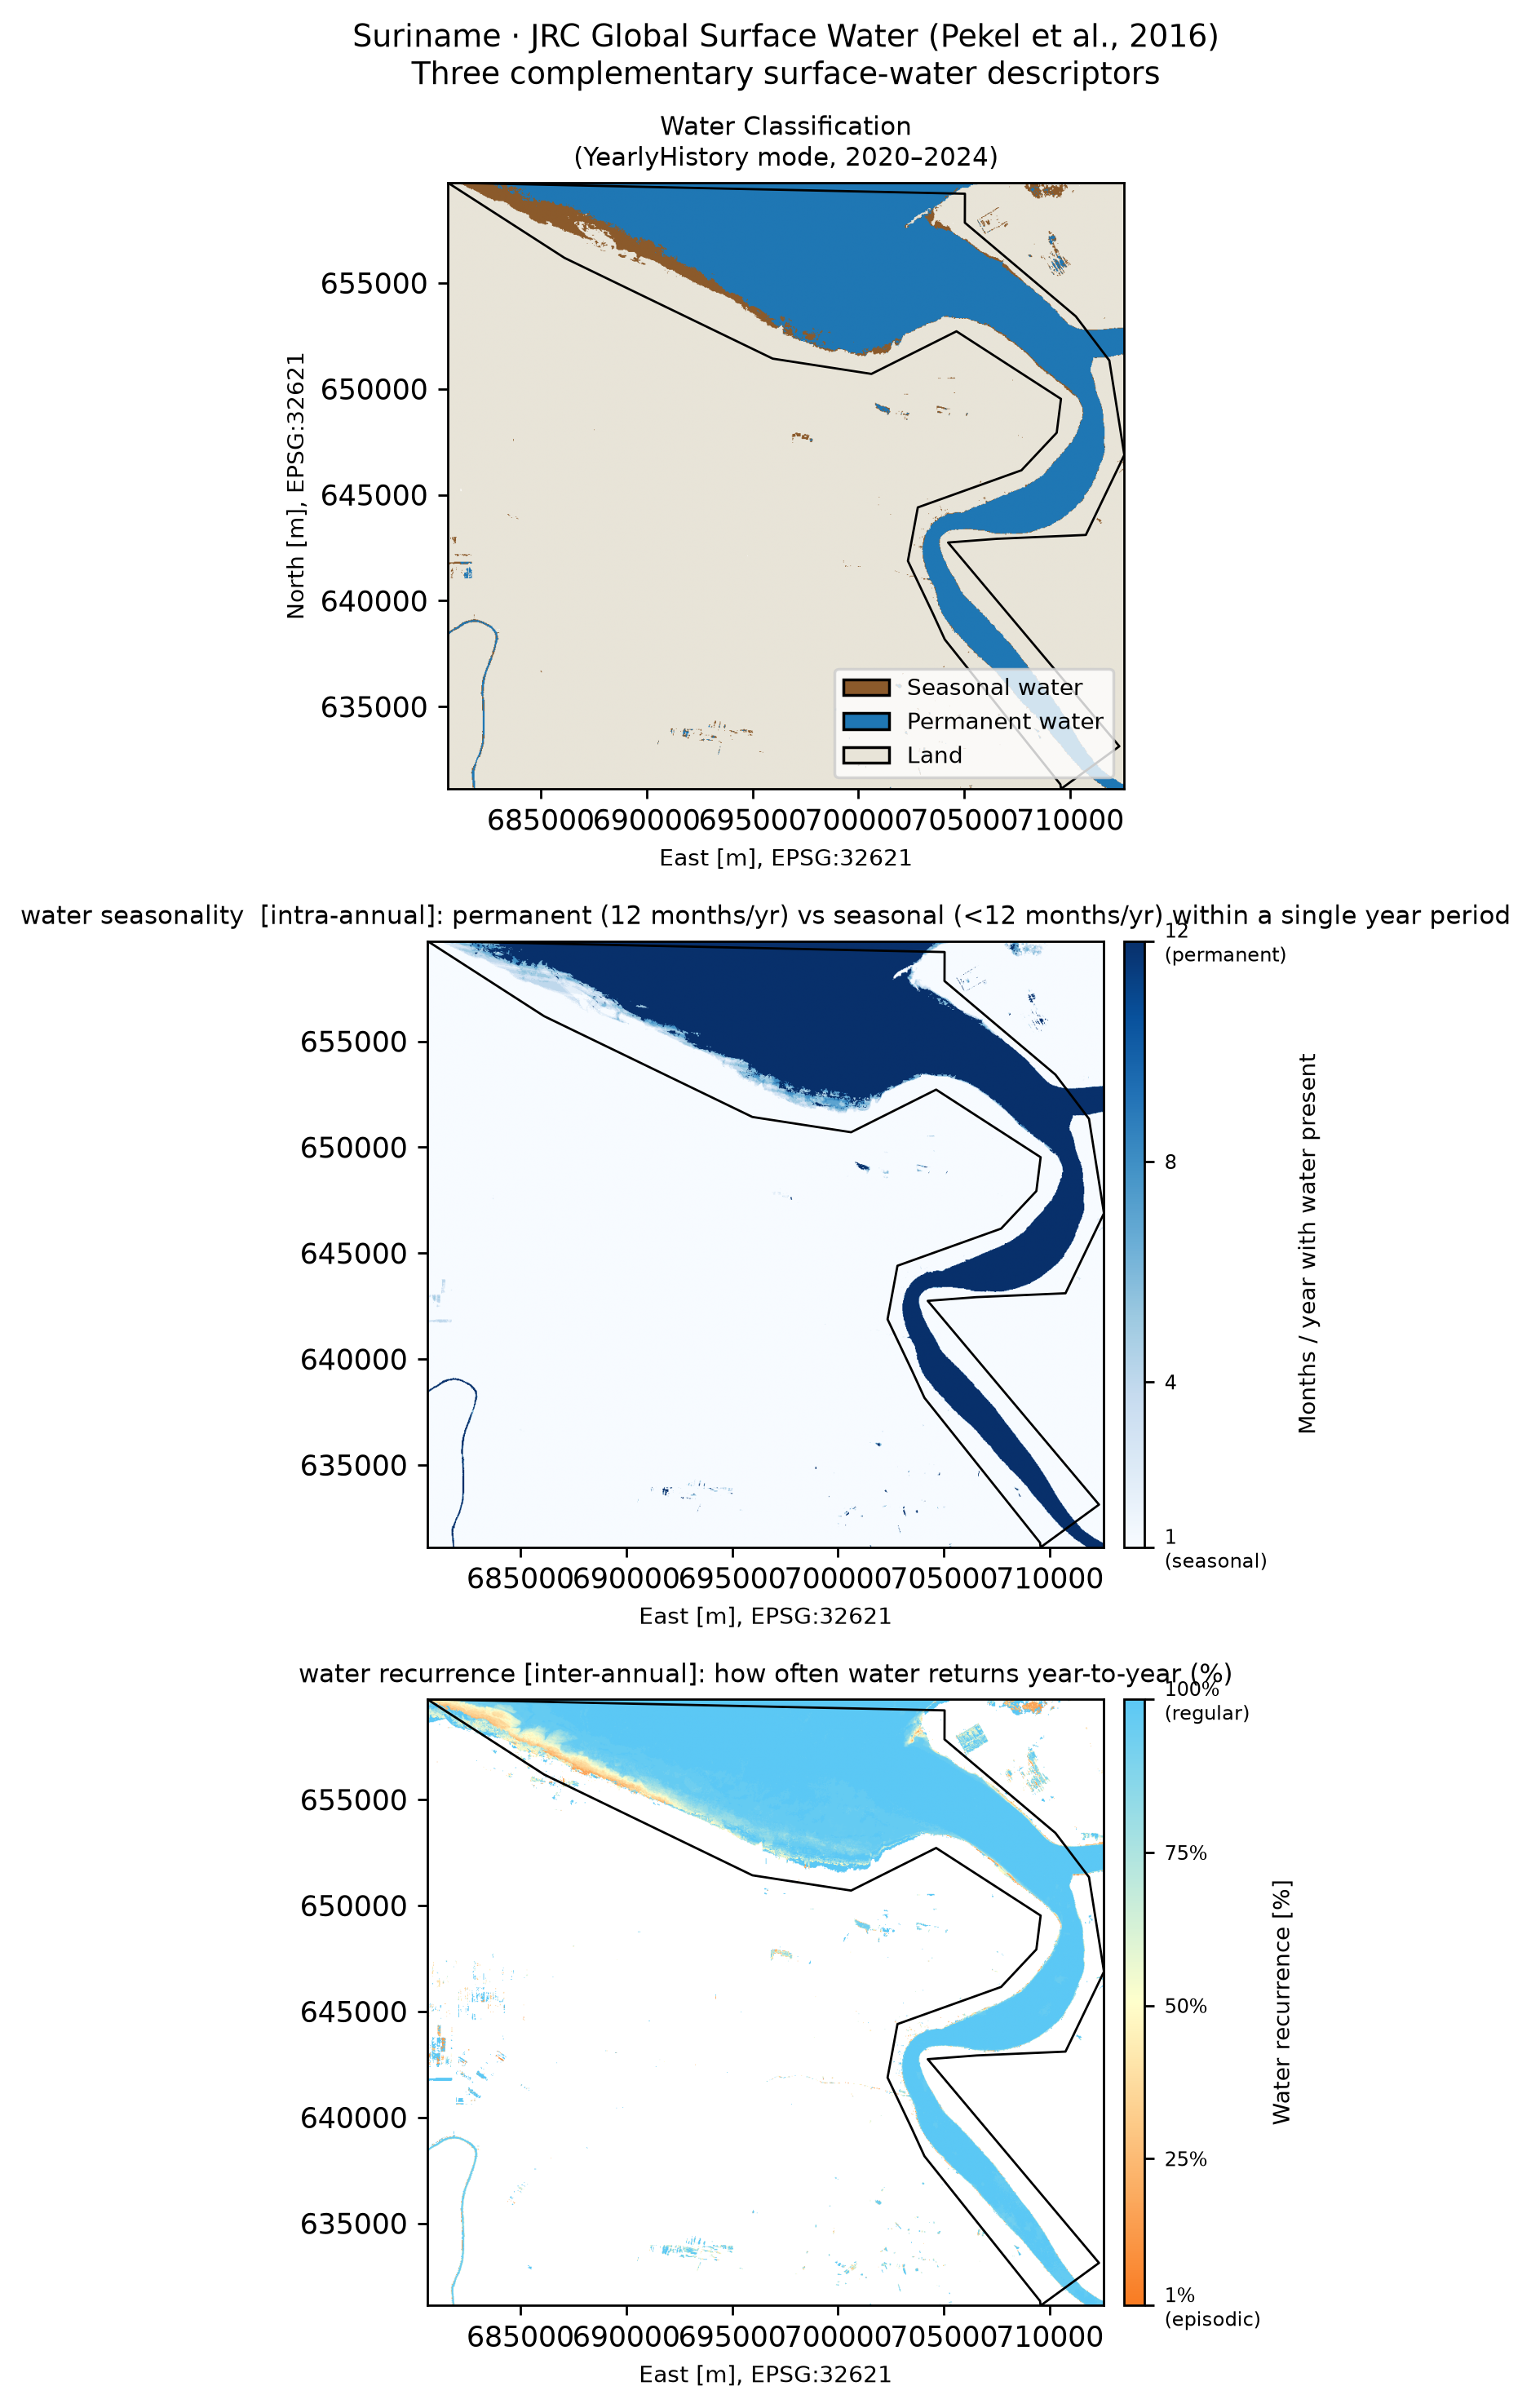
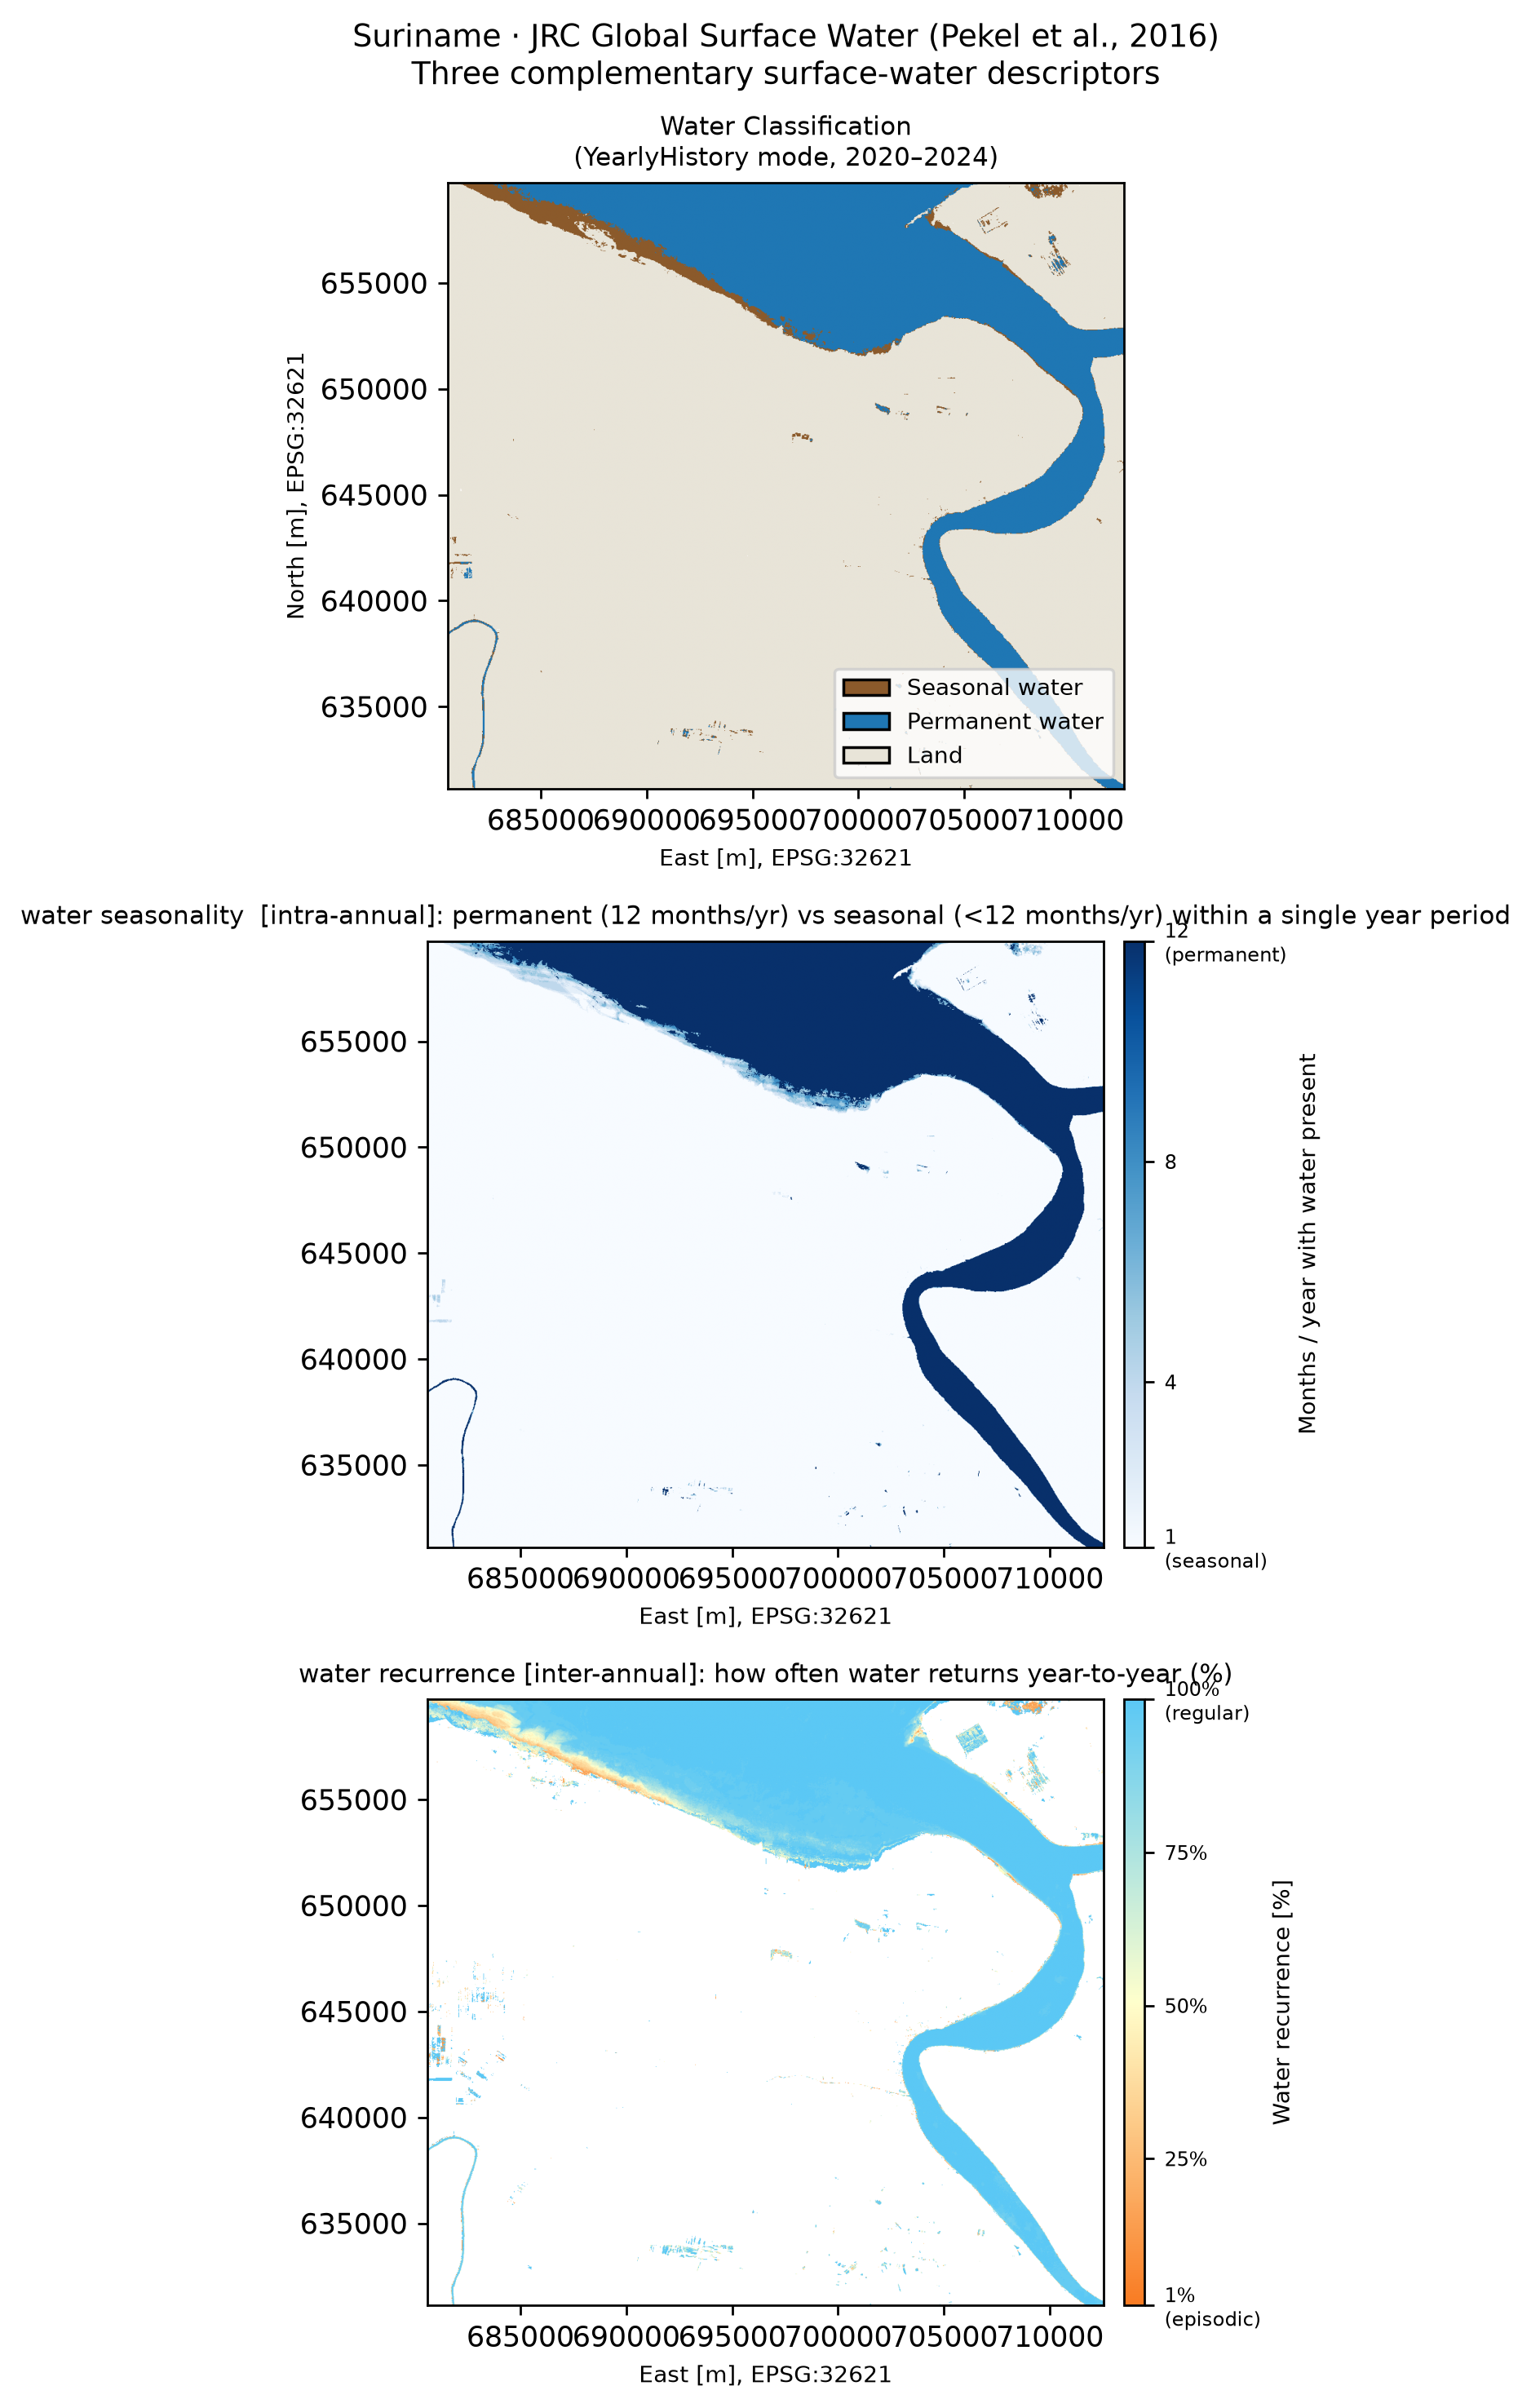
fix output directory and add change %

diff --git a/02_Data_analysis/intertidalarea_globalsurfacewater_estuaries.py b/02_Data_analysis/intertidalarea_globalsurfacewater_estuaries.py
@@ -30,11 +30,15 @@ from matplotlib.patches import Patch
 # =============================================================================
 # CONFIGURATION
 # =============================================================================
+# --- SELECT WHICH ESTUARY TO RUN ---
+ACTIVE_ESTUARY = 'Suriname'
+
 GCP_PROJECT = "ee-marloesbonenkamp"
 SCALE = 30          # m, native Landsat/GSW resolution
 TILE_SCALE = 4      # bump up if reduceRegion times out
 EXPORT_MODE = "interactive"   # "interactive" or "drive"
 CLASSIFICATION_YEARS = [2020, 2021, 2022, 2023, 2024]
+OUT_DIR = Path(r"u:\PhDNaturalRhythmEstuaries\Data\02_Estuaries_GlobalSurfaceWater")
 
 # Single shapefile containing all estuary polygons (drawn in QGIS, WGS84).
 BOUNDARIES_SHP = Path(r"C:\Users\marloesbonenka\Nextcloud\GlobalData_Estuaries\Estuaries_GlobalWaterSurface\estuary_polygons.shp")
@@ -64,9 +68,6 @@ ESTUARIES = {
     # add more as you digitise them in QGIS
 }
 
-# --- SELECT WHICH ESTUARY TO RUN ---
-ACTIVE_ESTUARY = 'Suriname'
-
 ee.Initialize(project=GCP_PROJECT)
 
 #%%
@@ -91,8 +92,8 @@ MOUTH_LAT, MOUTH_LON = _cfg['mouth']
 SHP_NAME    = _cfg.get('shp_name', ACTIVE_ESTUARY)  # name to match in NAME_COLUMN
 MAP_CRS     = f"EPSG:{utm_epsg_from_lonlat(MOUTH_LAT, MOUTH_LON)}"
 SLUG        = estuary_slug(ACTIVE_ESTUARY)
-OUT_CSV     = Path("cache") / f"{SLUG}_intertidal_timeseries.csv"
-Path("cache").mkdir(exist_ok=True)
+OUT_CSV     = OUT_DIR / f"{SLUG}_intertidal_timeseries.csv"
+Path(OUT_DIR).mkdir(exist_ok=True)
 
 print(f"Estuary  : {ACTIVE_ESTUARY}")
 print(f"Shapefile: {BOUNDARIES_SHP}  (feature: '{SHP_NAME}' in column '{NAME_COLUMN}')")
@@ -212,7 +213,7 @@ ax[1].legend()
 ax[1].grid(alpha=0.3)
 
 fig.tight_layout()
-fig.savefig(f"cache/{SLUG}_intertidal_timeseries.png", dpi=200)
+fig.savefig(f"{OUT_DIR}/{SLUG}_intertidal_timeseries.png", dpi=200)
 plt.show()
 
 
@@ -230,6 +231,7 @@ plt.show()
 #     one year to another, expressed as a percentage (0–100 %).  Low values
 #     (orange) mark episodic inundation; high values (light-blue) mark regularly
 #     and predictably inundated surfaces.
+#   
 #
 # Seasonality describes variability *within* a year; recurrence describes
 # variability *across* years.  A pixel can be seasonal-but-regular (e.g. a
@@ -294,8 +296,10 @@ def _fetch_gsw_band(band_name):
     return ee.data.computePixels(p)[band_name]
 
 
-seas_map = _fetch_gsw_band("seasonality")   # 0–12 months/year
-rec_map  = _fetch_gsw_band("recurrence")    # 0–100 %
+seas_map    = _fetch_gsw_band("seasonality")   # 0–12 months/year
+rec_map     = _fetch_gsw_band("recurrence")    # 0–100 %
+change_map  = _fetch_gsw_band("change_abs")    # -100 to 100 %
+max_ext_map = _fetch_gsw_band("max_extent")    # 0/1: water ever detected
 
 # %%
 import matplotlib.colors as mcolors
@@ -304,10 +308,10 @@ from mpl_toolkits.axes_grid1 import make_axes_locatable
 epsg_code = int(MAP_CRS.split(":")[1])
 gdf_utm = gdf.to_crs(epsg=epsg_code)
 
-fig, axes = plt.subplots(3, 1, figsize=(20, 12))
+fig, axes = plt.subplots(4, 1, figsize=(20, 16))
 fig.suptitle(
     f"{ACTIVE_ESTUARY} · JRC Global Surface Water (Pekel et al., 2016)\n"
-    "Three complementary surface-water descriptors",
+    "Four complementary surface-water descriptors",
     fontsize=11,
 )
 extent = [xmin, xmax, ymin, ymax]
@@ -316,7 +320,7 @@ extent = [xmin, xmax, ymin, ymax]
 cmap_cls = ListedColormap(["white", "#e8e4d8", "#8B5A2B", "#1f77b4"])
 norm_cls = BoundaryNorm([-0.5, 0.5, 1.5, 2.5, 3.5], cmap_cls.N)
 axes[0].imshow(wc_map, cmap=cmap_cls, norm=norm_cls, extent=extent, origin="upper")
-gdf_utm.boundary.plot(ax=axes[0], edgecolor="black", linewidth=0.8)
+# gdf_utm.boundary.plot(ax=axes[0], edgecolor="black", linewidth=0.8) # Plot polygon from ARCgis
 axes[0].legend(
     handles=[
         Patch(facecolor="#8B5A2B", edgecolor="k", label="Seasonal water"),
@@ -339,7 +343,7 @@ im_seas = axes[1].imshow(
     seas_masked, cmap="Blues", vmin=1, vmax=12,
     extent=extent, origin="upper",
 )
-gdf_utm.boundary.plot(ax=axes[1], edgecolor="black", linewidth=0.8)
+#gdf_utm.boundary.plot(ax=axes[1], edgecolor="black", linewidth=0.8) # Plot polygon from ARCgis
 
 # Use make_axes_locatable correctly:
 divider2 = make_axes_locatable(axes[1])
@@ -369,7 +373,7 @@ im_rec = axes[2].imshow(
     rec_masked, cmap=cmap_rec, vmin=1, vmax=100,
     extent=extent, origin="upper",
 )
-gdf_utm.boundary.plot(ax=axes[2], edgecolor="black", linewidth=0.8)
+#gdf_utm.boundary.plot(ax=axes[2], edgecolor="black", linewidth=0.8) # Plot polygon from ARCgis
 
 divider3 = make_axes_locatable(axes[2])
 cax3 = divider3.append_axes("right", size="3%", pad=0.1)
@@ -384,11 +388,35 @@ axes[2].set_title(
     fontsize=9,
 )
 
+# ── panel 4 · Water Occurrence Change Intensity ─────────────────────────────
+# change_abs = occurrence(1984–1999) minus occurrence(2000–2021) [%]
+# Positive (blue)  → more water in the recent epoch.
+# Negative (red)   → less water / more land in the recent epoch.
+# White            → no change.  Only shown where water was ever detected.
+change_masked = np.ma.masked_where(max_ext_map == 0, change_map.astype(float))
+im_chg = axes[3].imshow(
+    change_masked, cmap="RdBu", vmin=-100, vmax=100,
+    extent=extent, origin="upper",
+)
+divider4 = make_axes_locatable(axes[3])
+cax4 = divider4.append_axes("right", size="3%", pad=0.1)
+cb4 = fig.colorbar(im_chg, cax=cax4)
+cb4.set_label("Change in occurrence [%]", fontsize=8)
+cb4.set_ticks([-100, -50, 0, 50, 100])
+cb4.set_ticklabels(
+    ["-100%\n(more land)", "-50%", "0\n(no change)", "+50%", "+100%\n(more water)"],
+    fontsize=7,
+)
+axes[3].set_title(
+    "Water Occurrence Change Intensity  [1984–1999 → 2000–2021]",
+    fontsize=9,
+)
+
 for ax in axes:
     ax.set_xlabel(f"East [m], {MAP_CRS}", fontsize=8)
 axes[0].set_ylabel(f"North [m], {MAP_CRS}", fontsize=8)
 
 fig.tight_layout()
-fig.savefig(f"cache/{SLUG}_seasonality_recurrence_map.png", dpi=250, bbox_inches="tight")
+fig.savefig(f"{OUT_DIR}/{SLUG}_seasonality_recurrence_map.png", dpi=250, bbox_inches="tight")
 plt.show()
 # %%